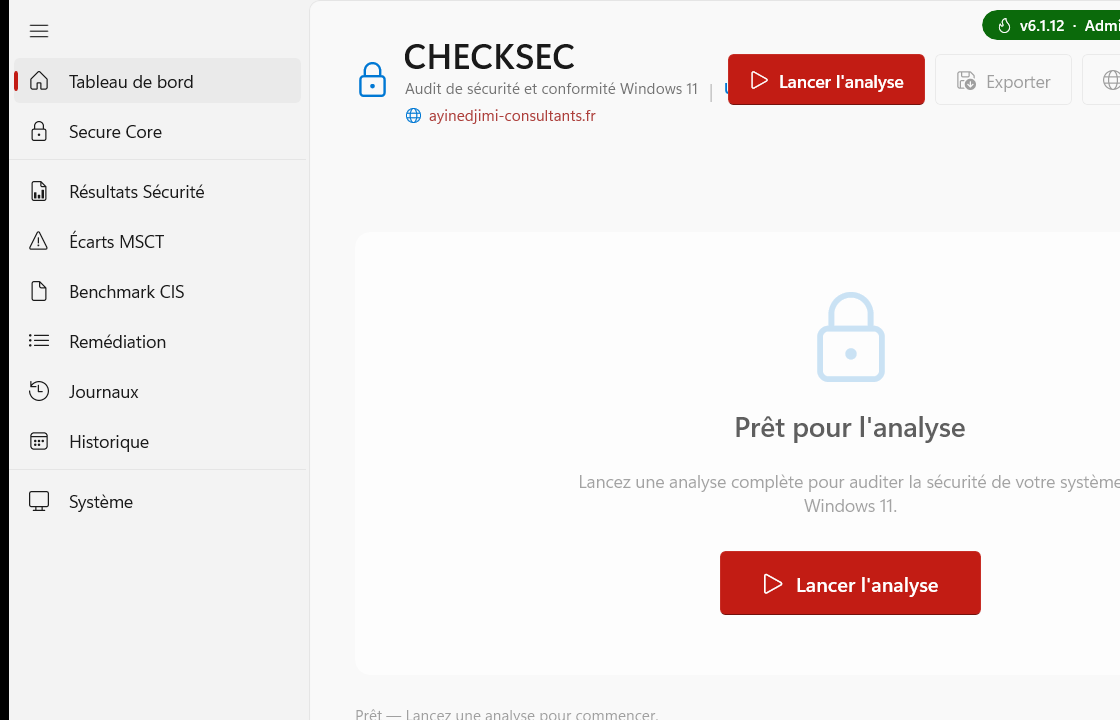
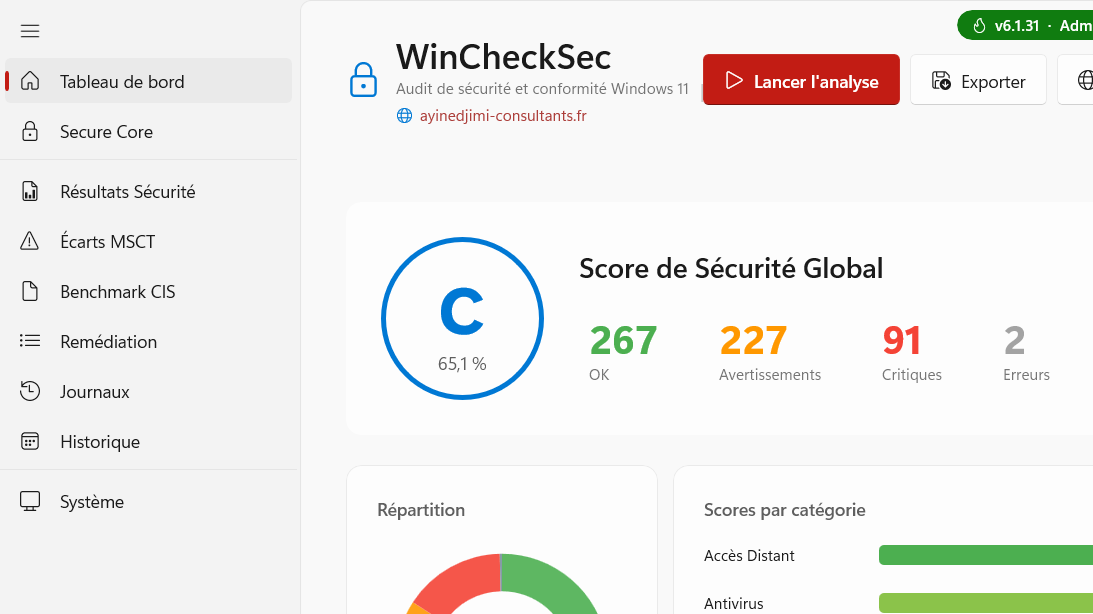
Finalisation du rebranding WinCheckSec (en-tete tableau de bord / a propos / tooltip) + capture d'ecran a jour avec resultats

diff --git a/CHECKSEC/Pages/DashboardPage.xaml b/CHECKSEC/Pages/DashboardPage.xaml
@@ -23,7 +23,7 @@
                 <StackPanel Orientation="Horizontal" Spacing="12" VerticalAlignment="Center">
                     <FontIcon Glyph="&#xE72E;" FontSize="28" Foreground="{StaticResource AccentBlueBrush}"/>
                     <StackPanel>
-                        <TextBlock Text="CHECKSEC" Style="{StaticResource TitleTextBlockStyle}"/>
+                        <TextBlock Text="WinCheckSec" Style="{StaticResource TitleTextBlockStyle}"/>
                         <StackPanel Orientation="Horizontal" Spacing="8">
                             <TextBlock Text="Audit de sécurité et conformité Windows 11"
                                        Style="{StaticResource CaptionTextBlockStyle}" Opacity="0.6"/>

diff --git a/CHECKSEC/Pages/AboutPage.xaml b/CHECKSEC/Pages/AboutPage.xaml
@@ -21,7 +21,7 @@
                     <StackPanel Orientation="Horizontal" Spacing="16">
                         <FontIcon Glyph="&#xE72E;" FontSize="40" Foreground="{StaticResource AccentBlueBrush}"/>
                         <StackPanel>
-                            <TextBlock Text="CHECKSEC" FontSize="28" FontWeight="Bold"/>
+                            <TextBlock Text="WinCheckSec" FontSize="28" FontWeight="Bold"/>
                             <TextBlock Text="{x:Bind ViewModel.Author}" FontSize="14"
                                        Foreground="{StaticResource AccentBlueBrush}" Margin="0,2,0,0"/>
                         </StackPanel>

diff --git a/CHECKSEC/MainWindow.xaml b/CHECKSEC/MainWindow.xaml
@@ -118,7 +118,7 @@
                 HorizontalAlignment="Right" VerticalAlignment="Top"
                 Margin="0,8,196,0" CornerRadius="12" Padding="12,4"
                 Canvas.ZIndex="100" Background="#0078D4"
-                ToolTipService.ToolTip="Version et build de CHECKSEC">
+                ToolTipService.ToolTip="Version et build de WinCheckSec">
             <StackPanel Orientation="Horizontal" Spacing="6">
                 <FontIcon Glyph="&#xECAD;" FontSize="12" Foreground="White"/>
                 <TextBlock x:Name="VersionBadgeText" Text="v6.1"
